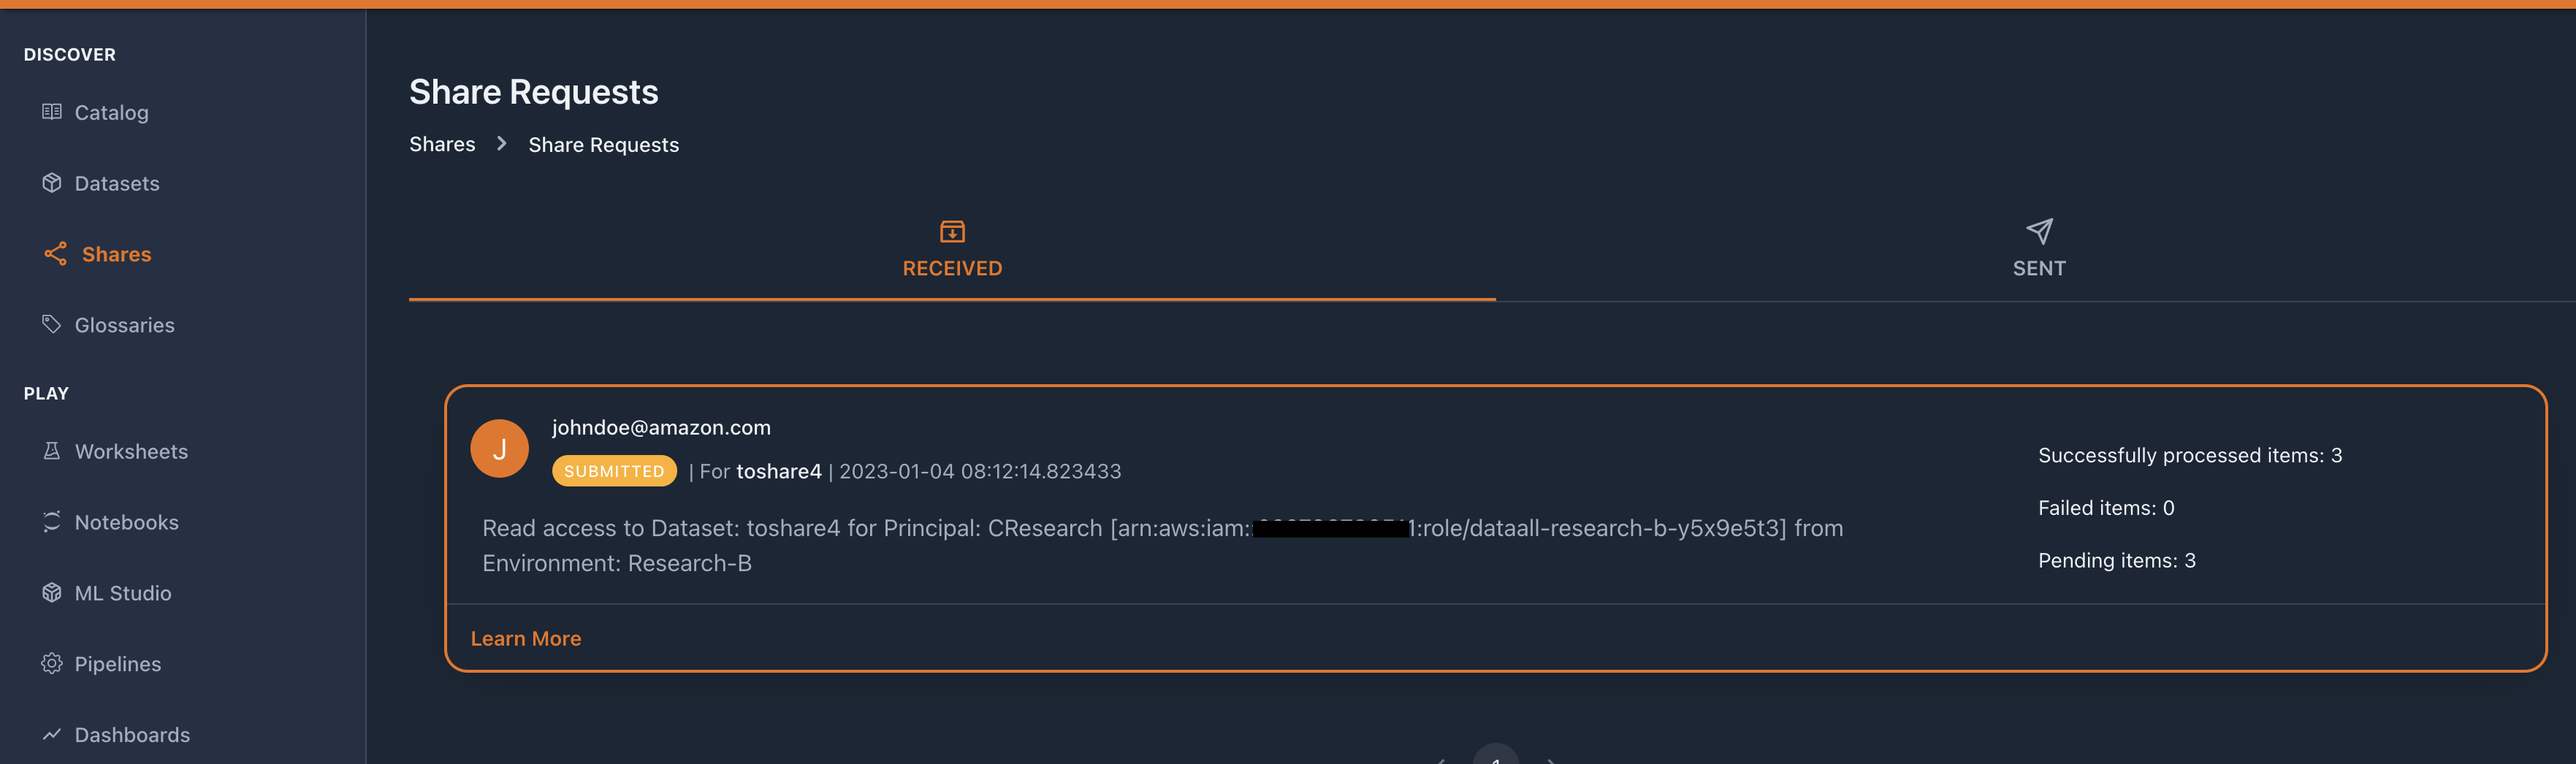
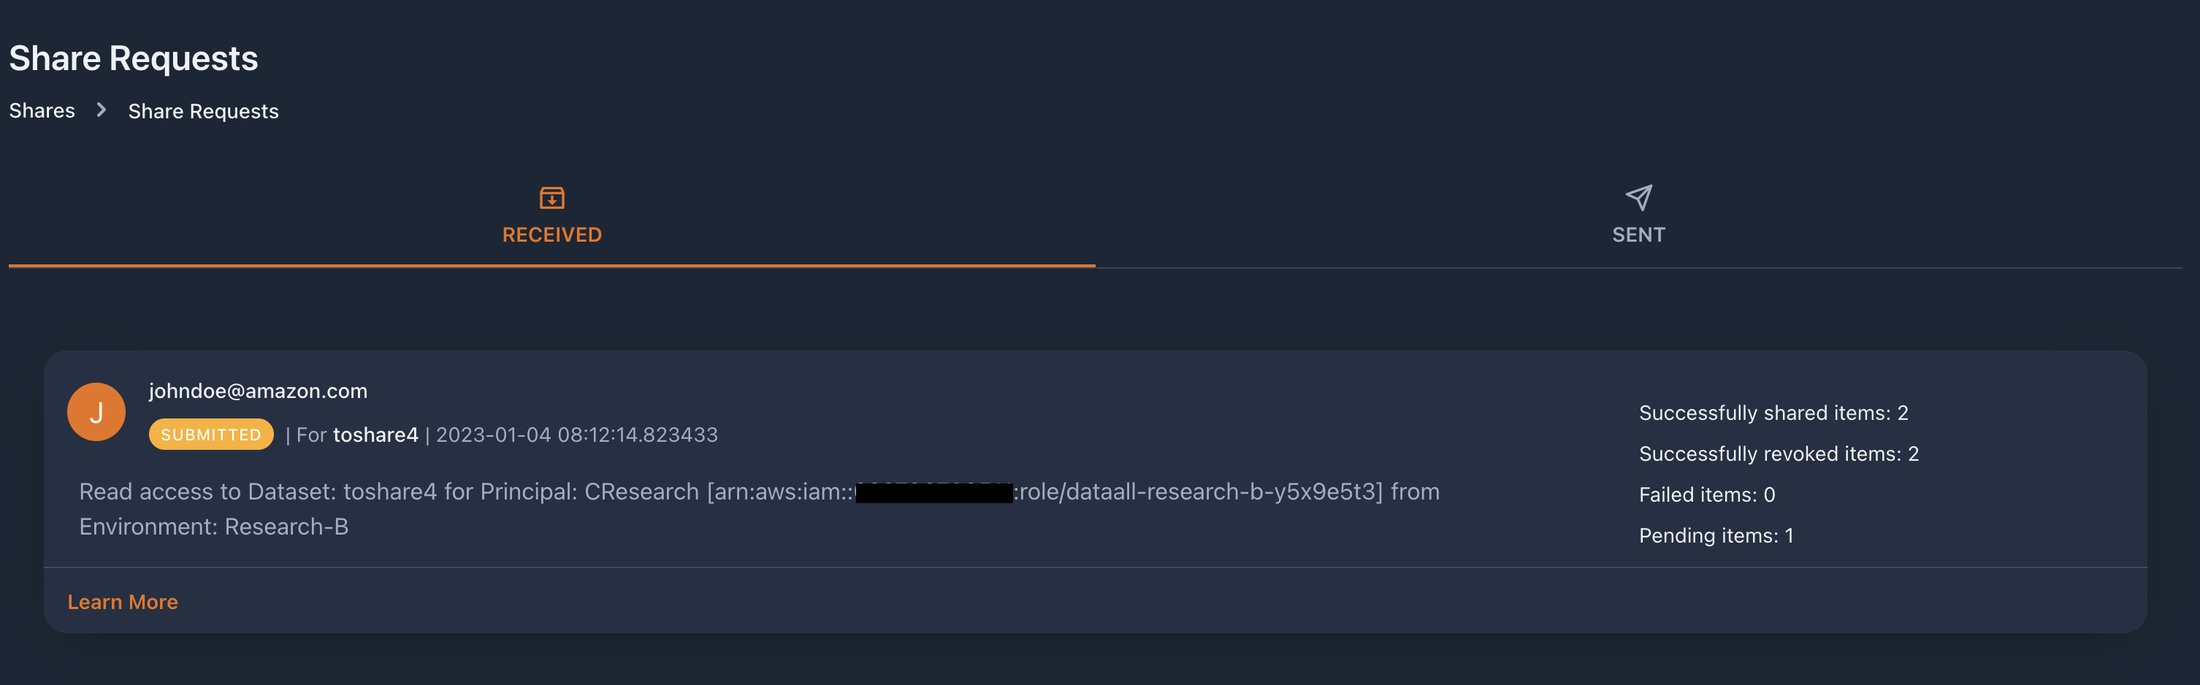
Fix update sqlalchemy in migration

diff --git a/backend/migrations/versions/2035e87072dd_sharing_state_machines_v1_4_0.py b/backend/migrations/versions/2035e87072dd_sharing_state_machines_v1_4_0.py
@@ -18,7 +18,7 @@ from datetime import datetime
 
 # revision identifiers, used by Alembic.
 revision = '2035e87072dd'
-down_revision = '04d92886fabe'
+down_revision = '509997f0a51e'
 branch_labels = None
 depends_on = None
 

diff --git a/documentation/userguide/docs/shares.md b/documentation/userguide/docs/shares.md
@@ -61,31 +61,28 @@ it will add those items to the request. The share needs to be submitted for the 
 ## **Check your sent/received share requests**
 Anyone can go to the Shares menu on the left side pane and look up the share requests that they have received
 and that they have sent. Click on **Learn More**
-in the request that you are interested in to start working on your request.
+in the request that you are interested in to start working on your request. 
 
-![add_share](pictures/shares/shares_initial_outbox.png#zoom#shadow)
-
-
-Initially the share request should be empty of items and in `DRAFT` state.
-
-![add_share](pictures/shares/shares_initial.png#zoom#shadow)
+![add_share](pictures/shares/shares_completed_inbox.png#zoom#shadow)
 
 ## **Add/delete items**
 When you create a share request for a dataset, you still need to add the items (tables or folders) that you want to
-get access to. Or if you have an existing share request with some shared tables and folders, you can add more items
-to the request.
+get access to. Initially the share request should be empty of items and in `DRAFT` state, it should look like the this picture.
 
-It will be more clear with an example. As appears in the picture, go to the share request and click on **Add Item**
-to add a table or folder to the request, the following window will pop up to let you choose a specific table
+![add_share](pictures/shares/shares_initial.png#zoom#shadow)
+
+As appears in the picture, by clicking on **Add Item**, the following window will pop up to let you choose a specific table
 or folder in the dataset.
 
 ![add_share](pictures/shares/shares_add_window.png#zoom#shadow)
 
 Note that the request is in `DRAFT` status and that
 the items that we add are in `PENDINGAPPROVAL`. They are not shared until the request is submitted and processed.
-IN the picture below, we have added the *iot* folder to the request and it is now in `PENDINGAPPROVAL`.
 
-On the contrary, if you want to remove the item click on the **Delete** button with 
+If you have an existing share request with some shared tables and folders, you can add more items
+to the request. In the picture below, we have added the *iot* folder to the request and it is now in `PENDINGAPPROVAL`.
+
+To remove an item from the request click on the **Delete** button with 
 the trash icon next to it. We can only delete items that have not been shared. Items that are shared must be revoked,
 which is explained below. That is why only the Folder *iot* has the **Delete** button next to it.
 
@@ -97,12 +94,12 @@ If an item has been previously shared it cannot be directly deleted. First, clic
 **Revoke item** next to the item that you want to revoke access to. The item 
 will go to `PENDINGREVOKE` status and the request to `DRAFT` status. Access is granted until the request is submitted and processed.
 
-In the example above, we have revoked access tot he table *videogames* and the folder *pdfs*.
+In the example above, we have revoked access to the table *videogames* and the folder *pdfs*.
 
 ## **Submit a share request (requester)**
 
 Once the draft is ready, the requesters need to click on the **submit** button. The request should be now in the `SUBMITTED` state. 
-Approvers can see the request in their received share requests, alongside the current shared items, failed items and pending items.
+Approvers can see the request in their received share requests, alongside the current shared items, revoked items, failed items and pending items.
 
 ![accept_share](pictures/shares/shares_submitted_inbox.png#zoom#shadow)
 
@@ -133,18 +130,18 @@ regards to the dataset is `SHARED`.
 
 ## **Revoke all items**
 After a project or during clean-up tasks we might want to clean up all shares in a request.
-Approvers and requesters have access to the **Revoke all** button, that deletes all itens
+Approvers and requesters have access to the **Revoke all** button, that deletes all items
 that are not shared and revokes all shared items. 
 
 
 Here we have an example of a request before being completely revoked:
 
-![accept_share](pictures/shares/shares_5.png#zoom#shadow)
+![accept_share](pictures/shares/shares_revokeall_1.png#zoom#shadow)
 
 And after revoking all, the only left items are those that have been revoked. 
 If we click again on the revoke all button they will be deleted.
 
-![accept_share](pictures/shares/shares_5.png#zoom#shadow)
+![accept_share](pictures/shares/shares_revokeall_2.png#zoom#shadow)
 
 ## **Delete share request**
 To delete a share request, it needs to be empty from shared items.
